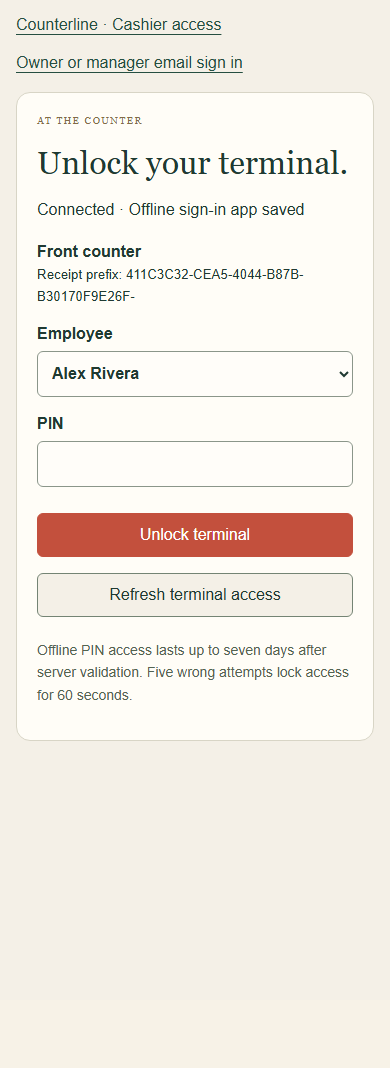
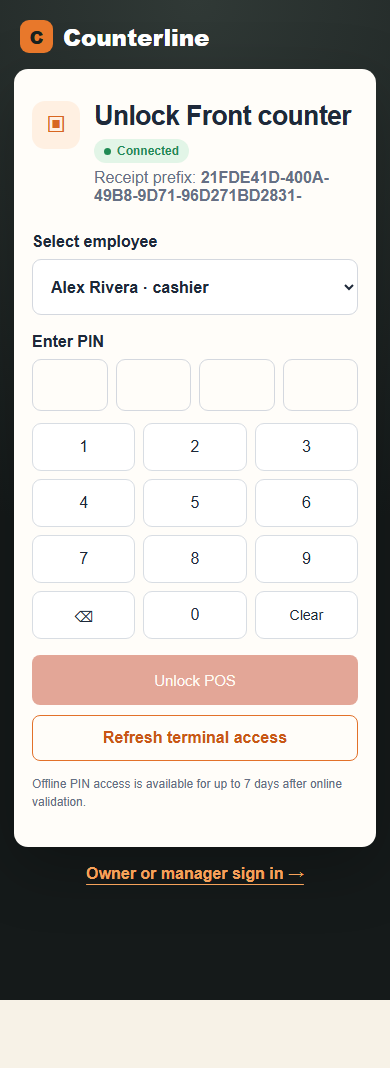
test(e2e): repair browser-check.ts terminal-auth lifecycle fixture
QA_REPORT.md §8 item 7 flagged this fixture as unattempted, likely stale
like the other three browser-check files were. It was: only 3 of 15
migrations were replayed (missing the onboarding-status migration
App.tsx's own store-load check now requires), the stores mock returned an
array shape when a .single() caller now needs a bare object (fixed with an
Accept-header branch, since a second caller in this flow needs the array
shape too), and several UI labels/headings had drifted (ManagerSetup's
"Cashier access." heading is "Cashier employees" now, the "Employee"
combobox is "Select employee", "Unlock terminal" is "Unlock POS", the
per-row "Edit {name}" button is now unlabeled "Edit", the employees screen
no longer links directly to /settings/terminals).

Fixing those surfaced a real, previously undocumented UX regression:
CashierLogin's success view (with its "Lock terminal" button) is now
unreachable in normal use — an effect navigates straight to /pos/register
the instant a valid session exists, before a cashier could ever see or
click it, and there is no other lock/switch-user affordance anywhere else
in the UI. Documented as a new finding in QA_REPORT.md. Reproduced
lockTerminal()'s own effect directly against IndexedDB in the fixture
(mirroring the direct-IndexedDB-seeding pattern already used in
reporting-browser-check.ts) so the PIN-lockout/clock-rollback/deactivation
coverage this file already had could keep running against a real PIN-entry
screen.
[…]

diff --git a/apps/api/test/browser-check.ts b/apps/api/test/browser-check.ts
@@ -18,9 +18,20 @@ await db.exec(`create role anon; create role authenticated; create role service_
   create schema auth; create table auth.users(id uuid primary key,raw_user_meta_data jsonb);
   create function auth.uid() returns uuid language sql as 'select null::uuid';
   create function auth.jwt() returns jsonb language sql as 'select ''{}''::jsonb';`)
-await db.exec((await readFile(root + 'supabase/migrations/202609130001_auth_and_stores.sql', 'utf8')).replace('create extension if not exists pgcrypto;', ''))
-await db.exec(await readFile(root + 'supabase/migrations/202609150001_terminal_employee_access.sql', 'utf8'))
-await db.exec(await readFile(root + 'supabase/migrations/202609150002_terminal_device_sessions.sql', 'utf8'))
+// Replay every migration in supabase/migrations/APPLIED.md's order, not a hand-picked subset — a
+// partial list drifts from the app's actual schema/UI expectations the moment a later migration
+// adds something the app comes to depend on (this one previously only replayed 3 of 15, missing
+// the onboarding-status migration App.tsx's own store-load check now requires).
+for (const name of ['202609130001_auth_and_stores.sql', '202609150001_catalog_checkout_sync.sql',
+  '202609150001_terminal_employee_access.sql', '202609150002_terminal_device_sessions.sql',
+  '202609150003_team_profile_visibility.sql', '202609160001_customers_and_sale_attachment.sql',
+  '202609170001_change_feed_product_entity.sql', '202609170002_cart_discounts.sql',
+  '202609180001_terminal_name_uniqueness.sql', '202609180002_pos_orders_report_read_access.sql',
+  '202609190001_audit_log.sql', '202609190001_store_onboarding_status.sql',
+  '202609190002_remove_demo_catalog_seed.sql', '202609190003_store_sync_feed_init.sql',
+  '202609200001_service_role_only_rls_policies.sql']) {
+  await db.exec((await readFile(root + `supabase/migrations/${name}`, 'utf8')).replace('create extension if not exists pgcrypto;', ''))
+}
 const owner = randomUUID(), store = randomUUID()
 await db.query('insert into auth.users(id) values($1)', [owner])
 await db.query("insert into public.stores(id,name,code,created_by) values($1,'Demo General','browser-test',$2)", [store, owner])
@@ -42,7 +53,17 @@ identity.options('/{*path}', (_req, res) => { res.sendStatus(204) })
 identity.use((req, res, next) => { if (req.headers.authorization !== `Bearer ${accessToken}`) { res.sendStatus(401); return }; next() })
 identity.get('/auth/v1/user', (_req, res) => { res.json(user) })
 identity.get('/rest/v1/store_memberships', (_req, res) => { res.json([{ store_id: store, role: 'owner' }]) })
-identity.get('/rest/v1/stores', (_req, res) => { res.json([{ id: store, name: 'Demo General' }]) })
+identity.get('/rest/v1/profiles', (_req, res) => { res.json([{ id: owner, full_name: 'Fixture Owner' }]) })
+// Two different callers hit this same path expecting two different shapes: App.tsx's onboarding-
+// status check (202609190001_store_onboarding_status.sql) uses .single(), which sends an
+// Accept: application/vnd.pgrst.object+json header and expects a bare object back, while
+// ManagerSetup.tsx's store picker uses a plain .select().in() and expects an array. PostgREST
+// itself branches on that same header, so this mock does too.
+identity.get('/rest/v1/stores', (req, res) => {
+  const single = String(req.headers.accept ?? '').includes('vnd.pgrst.object')
+  const row = { id: store, name: 'Demo General', onboarding_completed_at: new Date().toISOString() }
+  res.json(single ? row : [row])
+})
 const identityServer = identity.listen(3179, '127.0.0.1')
 const web = express()
 web.use('/api', createApp({ pool, origin: 'http://127.0.0.1:3178', supabaseUrl: 'http://127.0.0.1:3179', supabaseKey: 'test-publishable', secureCookies: false }))
@@ -66,14 +87,32 @@ try {
   page.on('pageerror', error => errors.push(error.message))
   page.on('requestfailed', request => console.log('Browser request failed:', new URL(request.url()).pathname, request.failure()?.errorText))
   page.on('response', response => { if (response.status() >= 400) console.log('Browser response:', response.status(), new URL(response.url()).pathname) })
+  // Reproduces lockTerminal() (apps/web/src/terminal-auth/cache.ts) directly against IndexedDB —
+  // see the FINDING comment below for why the real "Lock terminal" button can't be used instead.
+  async function simulateLock(target: typeof page) {
+    await target.evaluate(async () => {
+      const request = indexedDB.open('counterline-terminal-access')
+      const database = await new Promise<IDBDatabase>((resolve, reject) => { request.onsuccess = () => resolve(request.result); request.onerror = () => reject(request.error) })
+      const transaction = database.transaction('access', 'readwrite')
+      const store = transaction.objectStore('access')
+      const cache = await new Promise<{ session?: unknown } | undefined>((resolve, reject) => {
+        const getRequest = store.get('current')
+        getRequest.onsuccess = () => resolve(getRequest.result); getRequest.onerror = () => reject(getRequest.error)
+      })
+      if (cache) store.put({ ...cache, session: undefined })
+      await new Promise<void>((resolve, reject) => { transaction.oncomplete = () => resolve(); transaction.onerror = () => reject(transaction.error) })
+      database.close()
+    })
+    await target.goto('http://127.0.0.1:3178/pos/login', { waitUntil: 'domcontentloaded' })
+  }
   await page.goto('http://127.0.0.1:3178/settings/employees', { waitUntil: 'domcontentloaded' })
-  await expect(page.getByRole('heading', { name: 'Cashier access.' })).toBeVisible()
+  await expect(page.getByRole('heading', { name: 'Cashier employees' })).toBeVisible()
   await expect(page.getByLabel('Cashier name')).toBeEnabled({ timeout: 30_000 })
   const pin = String(100000 + Math.floor(Math.random() * 900000))
   await page.getByLabel('Cashier name').fill('Alex Rivera')
   await page.getByLabel('PIN', { exact: true }).fill(pin)
   await page.getByRole('button', { name: 'Create employee' }).click()
-  await expect(page.getByRole('button', { name: 'Edit Alex Rivera' })).toBeVisible()
+  await expect(page.getByRole('listitem').filter({ hasText: 'Alex Rivera' }).getByRole('button', { name: 'Edit' })).toBeVisible()
   const screenshots = root + 'docs/terminal-access/screenshots/'
   await mkdir(screenshots, { recursive: true })
   for (const width of [1440, 390, 375, 768]) {
@@ -81,7 +120,10 @@ try {
     assert(await page.evaluate(() => document.documentElement.scrollWidth <= window.innerWidth))
     if (width === 1440 || width === 390) await page.screenshot({ path: `${screenshots}employees-${width}.png`, fullPage: true })
   }
-  await page.getByRole('link', { name: 'Terminals', exact: true }).click()
+  // ManagerSetup's employees screen no longer links directly to the terminals screen (only a
+  // breadcrumb back to /settings) — navigate there directly, same as SettingsOverview's own
+  // "Manage terminals" link would.
+  await page.goto('http://127.0.0.1:3178/settings/terminals', { waitUntil: 'domcontentloaded' })
   await page.getByLabel('Terminal name').fill('Front counter')
   await page.getByRole('button', { name: 'Provision this browser' }).click()
   await expect(page.getByText('This browser is provisioned.', { exact: false })).toBeVisible()
@@ -91,8 +133,8 @@ try {
     if (width === 1440 || width === 390) await page.screenshot({ path: `${screenshots}terminals-${width}.png`, fullPage: true })
   }
   await page.getByRole('link', { name: 'Cashier sign in' }).click()
-  await expect(page.getByRole('combobox', { name: 'Employee', exact: true })).toBeEnabled()
-  await page.getByRole('combobox', { name: 'Employee', exact: true }).selectOption({ label: 'Alex Rivera' })
+  await expect(page.getByRole('combobox', { name: 'Select employee', exact: true })).toBeEnabled()
+  await page.getByRole('combobox', { name: 'Select employee', exact: true }).selectOption({ index: 1 })
   for (const width of [1440, 390, 375, 768]) {
     await page.setViewportSize({ width, height: 1000 })
     assert(await page.evaluate(() => document.documentElement.scrollWidth <= window.innerWidth))
@@ -100,57 +142,70 @@ try {
   }
   await page.setViewportSize({ width: 390, height: 1000 })
   await page.getByLabel('PIN', { exact: true }).fill(pin)
-  await page.getByRole('button', { name: 'Unlock terminal' }).click()
-  await expect(page.getByRole('heading', { name: 'PIN access granted.' })).toBeVisible()
+  await page.getByRole('button', { name: 'Unlock POS' }).click()
+  // CashierLogin's own useEffect now navigates straight to /pos/register the instant cache.session
+  // is valid, so the "PIN access granted" success view this test used to assert on here never
+  // actually stays on screen long enough to see in normal use — check the resulting navigation
+  // instead of that transient text.
+  await expect(page).toHaveURL('http://127.0.0.1:3178/pos/register')
   await page.evaluate(async () => { await navigator.serviceWorker.ready })
   // Reopen offline from the cached production shell and retained IndexedDB.
   await context.setOffline(true)
   await page.reload()
-  await expect(page.getByRole('heading', { name: 'PIN access granted.' })).toBeVisible()
-  await page.getByRole('button', { name: 'Lock terminal', exact: true }).click()
-  await expect(page.getByRole('combobox', { name: 'Employee', exact: true })).toBeEnabled()
-  await page.getByRole('combobox', { name: 'Employee', exact: true }).selectOption({ label: 'Alex Rivera' })
+  await expect(page).toHaveURL('http://127.0.0.1:3178/pos/register')
+  // FINDING (see QA_REPORT.md): CashierLogin.tsx's "Lock terminal" button is unreachable in normal
+  // use for the same reason — the moment cache.session is valid, the page immediately navigates
+  // away before a cashier could ever see or click it, and there is no other lock/switch-user
+  // affordance anywhere else in the UI. Reproduce what lockTerminal() (terminal-auth/cache.ts) does
+  // directly against IndexedDB so the PIN-lockout/clock-rollback/deactivation coverage below can
+  // still reach a fresh PIN-entry screen.
+  await simulateLock(page)
+  await expect(page.getByRole('combobox', { name: 'Select employee', exact: true })).toBeEnabled()
+  await page.getByRole('combobox', { name: 'Select employee', exact: true }).selectOption({ index: 1 })
   const wrongPin = String((Number(pin) + 1) % 1000000).padStart(6, '0')
   for (let attempt = 0; attempt < 5; attempt++) {
     await page.getByLabel('PIN', { exact: true }).fill(wrongPin)
-    await page.getByRole('button', { name: 'Unlock terminal' }).click()
+    await page.getByRole('button', { name: 'Unlock POS' }).click()
     await expect(page.getByRole('alert')).toContainText('PIN not accepted')
-    await expect(page.getByRole('button', { name: 'Unlock terminal' })).toBeEnabled()
+    // unlock() now clears the PIN field on failure (forcing re-entry), so the button is briefly
+    // disabled again until the next fill() above re-populates it — no longer meaningful to assert
+    // "re-enabled" here on its own.
   }
   await page.reload()
-  await page.getByRole('combobox', { name: 'Employee', exact: true }).selectOption({ label: 'Alex Rivera' })
+  await page.getByRole('combobox', { name: 'Select employee', exact: true }).selectOption({ index: 1 })
   await page.getByLabel('PIN', { exact: true }).fill(pin)
-  await page.getByRole('button', { name: 'Unlock terminal' }).click()
+  await page.getByRole('button', { name: 'Unlock POS' }).click()
   await expect(page.getByRole('alert')).toContainText('PIN access is locked')
   await page.screenshot({ path: `${screenshots}offline-lockout-390.png`, fullPage: true })
   // Advance the test clock past lockout, preserving the authorization window.
   await page.clock.install({ time: Date.now() + 61_000 })
   await page.getByLabel('PIN', { exact: true }).fill(pin)
-  await page.getByRole('button', { name: 'Unlock terminal' }).click()
-  await expect(page.getByRole('heading', { name: 'PIN access granted.' })).toBeVisible()
+  await page.getByRole('button', { name: 'Unlock POS' }).click()
+  await expect(page).toHaveURL('http://127.0.0.1:3178/pos/register')
+  await simulateLock(page)
   await page.clock.setSystemTime(Date.now() - 60_000)
   await page.clock.runFor(6000)
-  await expect(page.getByRole('combobox', { name: 'Employee', exact: true })).toBeVisible()
-  await page.getByRole('combobox', { name: 'Employee', exact: true }).selectOption({ label: 'Alex Rivera' })
+  await expect(page.getByRole('combobox', { name: 'Select employee', exact: true })).toBeVisible()
+  await page.getByRole('combobox', { name: 'Select employee', exact: true }).selectOption({ index: 1 })
   await page.getByLabel('PIN', { exact: true }).fill(pin)
-  await page.getByRole('button', { name: 'Unlock terminal' }).click()
+  await page.getByRole('button', { name: 'Unlock POS' }).click()
   await expect(page.getByRole('alert')).toContainText('clock moved backwards')
   await page.clock.setSystemTime(Date.now())
   await context.setOffline(false)
   await expect(page.getByRole('button', { name: 'Refresh terminal access' })).toBeEnabled()
   await page.getByRole('button', { name: 'Refresh terminal access' }).click()
-  await expect(page.getByRole('combobox', { name: 'Employee', exact: true })).toBeEnabled()
-  await expect(page.getByRole('heading', { name: 'PIN access granted.' })).toHaveCount(0)
-  await page.getByRole('combobox', { name: 'Employee', exact: true }).selectOption({ label: 'Alex Rivera' })
+  await expect(page.getByRole('combobox', { name: 'Select employee', exact: true })).toBeEnabled()
+  await page.getByRole('combobox', { name: 'Select employee', exact: true }).selectOption({ index: 1 })
   await page.getByLabel('PIN', { exact: true }).fill(pin)
-  await page.getByRole('button', { name: 'Unlock terminal' }).click()
-  await expect(page.getByRole('heading', { name: 'PIN access granted.' })).toBeVisible()
+  await page.getByRole('button', { name: 'Unlock POS' }).click()
+  await expect(page).toHaveURL('http://127.0.0.1:3178/pos/register')
+  await simulateLock(page)
   const employee = await db.query<{ id: string }>('select id from public.terminal_employees where store_id=$1', [store])
   const changed = await context.request.post('http://127.0.0.1:3178/api/terminal-auth/employees', { headers: { Origin: 'http://127.0.0.1:3178', Authorization: `Bearer ${accessToken}` }, data: { id: employee.rows[0].id, store_id: store, name: 'Alex Rivera', role: 'cashier', active: false } })
   assert.equal(changed.status(), 200)
   await page.getByRole('button', { name: 'Refresh terminal access' }).click()
   await expect(page.getByText('No cached employees are available.', { exact: false })).toBeVisible()
-  await expect(page.getByRole('heading', { name: 'PIN access granted.' })).toHaveCount(0)
+  await expect(page.getByText('PIN access granted', { exact: false })).toHaveCount(0)
   assert.deepEqual(errors, [])
   console.log('PASS: manager employee setup, provisioning, online PIN login, all new screens at 375/390/768/1440, offline reload/unlock, persisted lockout, clock rollback, no session resurrection after local lock, connected deactivation. Screenshots saved.')
 } finally {
